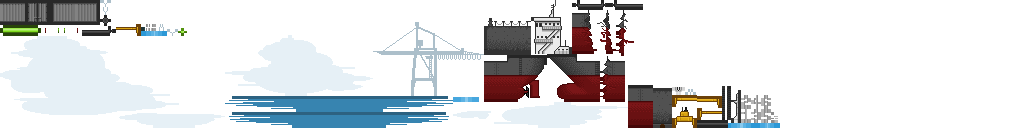
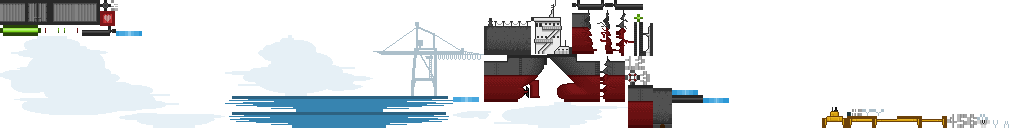
Verbleibende Leben und Schiffe werden nun im Vordergrund dargestellt.

Changed region(s): [[0.6562, 0.6562, 1.0, 1.0], [0.5938, 0.125, 0.6562, 0.6562], [0.0938, 0.0, 0.1875, 0.2812]]

diff --git a/Source/Docker/core/src/com/docker/domain/gameobject/Foreground.java b/Source/Docker/core/src/com/docker/domain/gameobject/Foreground.java
@@ -17,18 +17,24 @@ import com.badlogic.gdx.graphics.glutils.ShapeRenderer.ShapeType;
 import com.badlogic.gdx.math.Vector2;
 import com.badlogic.gdx.scenes.scene2d.Actor;
 import com.badlogic.gdx.utils.Array;
+import com.docker.Docker;
 
 public class Foreground extends Actor {
-	public static float DEFAULT_WATERLEVEL = 20;
+	private static float DEFAULT_WATERLEVEL = 20;
+	private static float LIFE_PADDING = 5;
 	
 	private float waterLevel;
 	private float capsizeValue;
 	private float bubbleXOffset;
+	private int remainingLives;
+	private int remainingShips;
 	
 	private TextureRegion dock;
 	private TextureRegion waterLevelBase;
 	private TextureRegion waterLevelMarkings;
 	private TextureRegion waterLevelBubble;
+	private TextureRegion liveContainer;
+	private TextureRegion liveSaver;
 	private Array<AtlasRegion> waterMovement;
 	private Array<AtlasRegion> shipReflection;
 	private Animation waterMovementAnimation;
@@ -36,6 +42,7 @@ public class Foreground extends Actor {
 	private List<Vector2> waterMovementPositions;
 	private ShapeRenderer shapeRenderer;
 	private float stateTime;
+
 	
 	/**
 	 * @param width The width over which the foreground spans. Usually equals the stages/screens width.
@@ -50,6 +57,8 @@ public class Foreground extends Actor {
 		this.shapeRenderer = new ShapeRenderer();
 		this.stateTime = 0f;
 		this.bubbleXOffset = 0f;
+		this.remainingLives = 0;
+		this.remainingShips = 0;
 		
 		TextureAtlas atlas = new TextureAtlas(Gdx.files.internal("img/docker.atlas"));
 		this.dock = atlas.findRegion("fg_dock");
@@ -58,6 +67,8 @@ public class Foreground extends Actor {
 		this.waterLevelBubble = atlas.findRegion("water_level_bubble");
 		this.waterMovement = atlas.findRegions("fg_water_movement");
 		this.shipReflection = atlas.findRegions("fg_ship_reflection");
+		this.liveContainer = atlas.findRegion("live_container");
+		this.liveSaver = atlas.findRegion("live_saver");
 		
 		this.waterMovementAnimation = new Animation(0.2f, this.waterMovement);
 		this.waterMovementAnimation.setPlayMode(PlayMode.LOOP_PINGPONG);
@@ -154,7 +165,18 @@ public class Foreground extends Actor {
 				position.x = rand.nextFloat()*this.getWidth();
 				position.y = (this.getWaterLevel()-2);
 			}
-		}		
+		}
+		
+		//draw lives & ships
+		for (int i = 0; i < this.remainingLives; i++) {
+			float xOffset = (liveContainer.getRegionWidth()+LIFE_PADDING)*(i+1);
+			batch.draw(this.liveContainer, this.getWidth()-xOffset, Docker.HEIGHT-49);
+		}
+		float xOffset = LIFE_PADDING;
+		for (int i = 0; i < this.remainingShips; i++) {
+			batch.draw(this.liveSaver, xOffset, Docker.HEIGHT-49);
+			xOffset += (liveSaver.getRegionWidth()+LIFE_PADDING);
+		}
 	}
 
 	/**
@@ -173,5 +195,21 @@ public class Foreground extends Actor {
 	
 	public void setCapsizeValue(float capsizeValue){
 		this.capsizeValue = capsizeValue;
+	}
+
+	public int getRemainingLives() {
+		return remainingLives;
+	}
+
+	public void setRemainingLives(int lives) {
+		this.remainingLives = lives;
+	}
+
+	public int getRemainingShips() {
+		return remainingShips;
+	}
+
+	public void setRemainingShips(int ships) {
+		this.remainingShips = ships;
 	}
 }

diff --git a/Source/Docker/core/src/com/docker/domain/game/InfiniteGame.java b/Source/Docker/core/src/com/docker/domain/game/InfiniteGame.java
@@ -12,7 +12,7 @@ public class InfiniteGame extends AbstractGame{
 
 	private Skin skin = new Skin(Gdx.files.internal("ui/uiskin.json"));
 	private TextButton gameMenuButton = new TextButton("Play", skin);
-	private int shipsRemaining;
+	private int remainingShips;
 
 	public InfiniteGame(final Docker application) {
 		super(application);
@@ -21,7 +21,7 @@ public class InfiniteGame extends AbstractGame{
 		setShip(level.getShip());
 		setTrain(level.getTrain());
 		setLives(level.getLifeCount());
-		shipsRemaining = 3;
+		setRemainingShips(3);
 		setLoadRating(new LoadRating(getShip().getBreakThreshold(), getShip().getCapsizeThreshold(), 1));
 		
 
@@ -39,11 +39,20 @@ public class InfiniteGame extends AbstractGame{
 	@Override
 	public void render(float delta) {
 		super.render(delta);
-		if(shipsRemaining <= 0)
+		if(getRemainingShips() <= 0)
 			super.gameOver();
 		//Like that can the button be at first position
 		this.stage.getBatch().begin();
 		gameMenuButton.draw(this.stage.getBatch(), 1);
 		this.stage.getBatch().end();
+	}
+
+	public int getRemainingShips() {
+		return remainingShips;
+	}
+
+	public void setRemainingShips(int remainingShips) {
+		this.remainingShips = remainingShips;
+		this.foreground.setRemainingShips(remainingShips);
 	}
 }

diff --git a/Source/Docker/core/src/com/docker/domain/game/AbstractGame.java b/Source/Docker/core/src/com/docker/domain/game/AbstractGame.java
@@ -31,7 +31,7 @@ public abstract class AbstractGame extends ScreenAdapter {
 	protected WorldStage stage;
 	protected ExtendViewport viewport;
 	protected BitmapFont font;
-	protected boolean showDebugInfo = true;	
+	protected boolean showDebugInfo = false;	
 
 	protected int score;
 	protected double time;
@@ -43,8 +43,8 @@ public abstract class AbstractGame extends ScreenAdapter {
 	protected boolean gameOver;
 	protected boolean scoreScreen;
 	protected Music backgroundMusic;
-	private Foreground foreground;
-	private Background background;
+	protected Foreground foreground;
+	protected Background background;
 
 	public AbstractGame(Docker application){
 		this.application = application;
@@ -233,6 +233,9 @@ public abstract class AbstractGame extends ScreenAdapter {
 		{
 			displayPauseScreen();
 		}
+		if(Gdx.input.isKeyJustPressed(Keys.D)){		//this is just for us
+			this.showDebugInfo = !this.showDebugInfo;
+		}
 		
 		this.time += delta;
 
@@ -314,6 +317,7 @@ public abstract class AbstractGame extends ScreenAdapter {
 
 	public void setLives(int lives) {
 		this.lives = lives;
+		this.foreground.setRemainingLives(lives);
 	}
 
 	public Ship getShip() {

diff --git a/Source/Docker/core/src/com/docker/domain/gameobject/Ship.java b/Source/Docker/core/src/com/docker/domain/gameobject/Ship.java
@@ -215,6 +215,7 @@ public class Ship extends Actor {
 			fbo.getColorBufferTexture().setFilter(TextureFilter.Nearest, TextureFilter.Nearest);
 		}
 		if(this.snapshotShader == null){
+			// No idea how this shader works, but it is needed to blend alpha values correctly.
 			String vertexShader = "attribute vec4 " + ShaderProgram.POSITION_ATTRIBUTE + ";\n" //
 					+ "attribute vec4 " + ShaderProgram.COLOR_ATTRIBUTE + ";\n" //
 					+ "attribute vec2 " + ShaderProgram.TEXCOORD_ATTRIBUTE + "0;\n" //

diff --git a/Source/Docker/core/src/com/docker/domain/game/LoadRating.java b/Source/Docker/core/src/com/docker/domain/game/LoadRating.java
@@ -38,7 +38,7 @@ public class LoadRating {
 		float tempCapsize;
 		float tempBeauty;
 		float factor;
-		System.out.println(breakValueSum+" "+breakThreshold+" "+capsizeThreshold+" "+capsizeValue);
+		
 		factor = 1;//(breakThreshold-breakValueSum)/breakThreshold;
 		//tempBreak = 300*(breakThreshold-breakValueSum)/breakThreshold;
 		if(1 > Math.abs(capsizeValue)){
